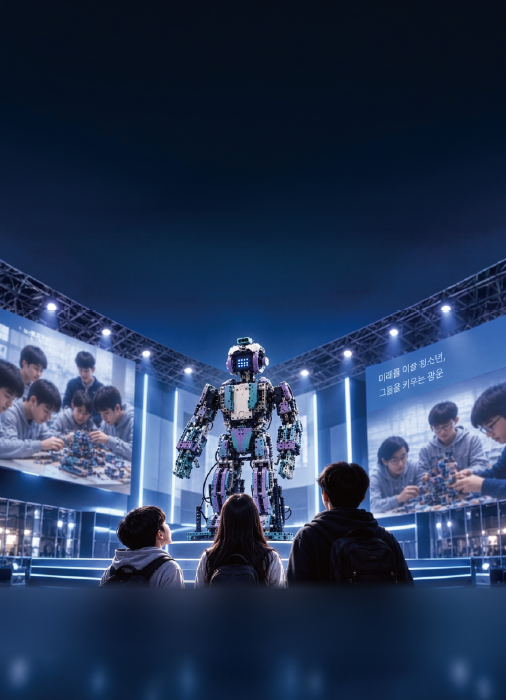
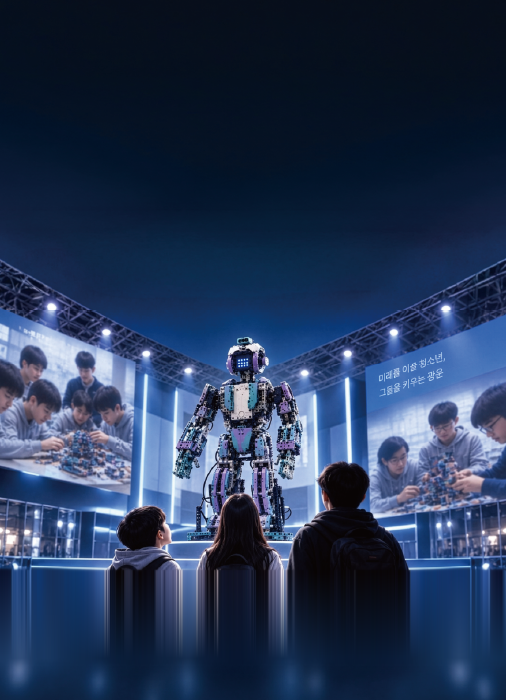
표지 이미지의 인쇄 바 자국 제거, 정보 바는 원래 크기로 위치만 상향

Changed region(s): [[0.0, 0.81, 0.4447, 0.93], [0.7411, 0.81, 1.0, 0.9], [0.504, 0.81, 0.6522, 0.93]]

diff --git a/index.html b/index.html
@@ -47,7 +47,7 @@
 
   /* 표지 (포스터 원본) */
   /* 포스터 한 장 그대로, 화면 높이에 꽉 차게 (세로 기준으로 채우고 좌우만 잘림) */
-  .cover{position:relative;height:100svh;min-height:560px;background:#0a1330 url(cover.png?v=8) center bottom/cover no-repeat;color:#fff}
+  .cover{position:relative;height:100svh;min-height:560px;background:#0a1330 url(cover.png?v=9) center bottom/cover no-repeat;color:#fff}
   .cover-title{position:absolute;inset:8.43% 8% auto;text-align:center}
   .cover-title .rule{height:2px;background:linear-gradient(90deg,rgba(170,200,255,.15),#d6e4ff 50%,rgba(170,200,255,.15));
     box-shadow:0 0 8px rgba(150,190,255,.9),0 0 18px rgba(120,170,255,.6)}
@@ -55,8 +55,8 @@
   .cover-title .main{font-size:clamp(44px,15vw,72px);font-weight:900;margin:22px 0 4px;letter-spacing:-.02em;
     text-shadow:0 0 12px rgba(190,215,255,.75),0 0 28px rgba(120,170,255,.45)}
   .cover-title .main2{font-size:clamp(22px,7.4vw,34px);font-weight:800;text-shadow:0 0 10px rgba(170,200,255,.6)}
-  .cover-bar{position:absolute;left:0;right:0;top:80.5%;bottom:7.1%;display:flex;align-items:center;
-    background:rgba(6,16,40,.45);
+  .cover-bar{position:absolute;left:0;right:0;top:80.5%;display:flex;
+    padding-block:3.1%;background:rgba(6,16,40,.45);
     font-size:clamp(12px,3.6vw,16px);font-weight:700;line-height:1.4;color:#fff}
   /* 원본 포스터 선: 보라 → 하늘색 그라데이션 */
   .cover-bar::before,.cover-bar::after{content:"";position:absolute;left:0;right:0;height:1px;
